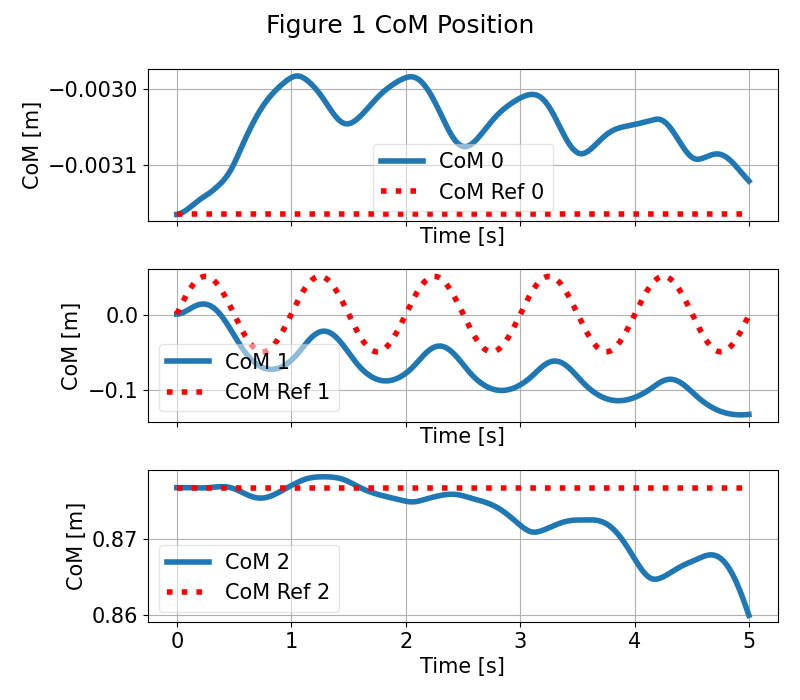
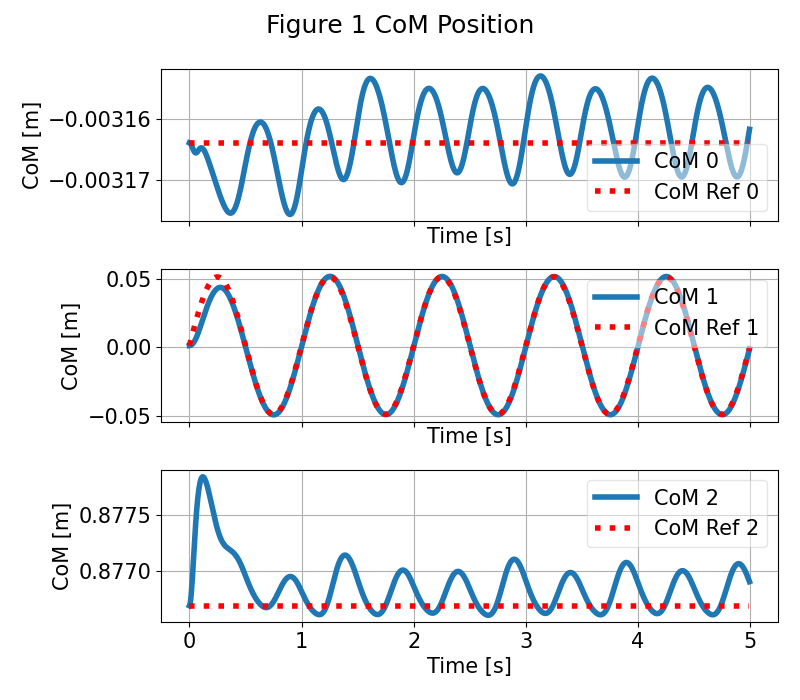
set all configuration in first and second exercise

diff --git a/romeo_conf.py b/romeo_conf.py
@@ -92,7 +92,25 @@ def select_weights_and_gains(option):
         kp_posture = 1.0  # proportional gain of joint posture task
         
     elif option == 1:
-        # Configuration 1: First solution first point
+        # Configuration 1: First solution for 15 but not optimal
+        w_com = 1.0  # weight of center of mass task
+        w_cop = 0.0  # weight of center of pressure task
+        w_am = 1e-6  # weight of angular momentum task
+        w_foot = 1e0  # weight of the foot motion task
+        w_contact = 1e2  # weight of the foot in contact
+        w_posture = 1e-1  # weight of joint posture task
+        w_forceRef = 1e-5  # weight of force regularization task
+        w_torque_bounds = 1.0  # weight of the torque bounds
+        w_joint_bounds = 1.0
+        
+        kp_contact = 10.0  # proportional gain of contact constraint
+        kp_foot = 10.0  # proportional gain of contact constraint
+        kp_com = 10.0  # proportional gain of center of mass task
+        kp_am = 10.0  # proportional gain of angular momentum task
+        kp_posture = 1.0  # proportional gain of joint posture task
+        
+    elif option == 2:
+        # Configuration 1: First solution optimal
         w_com = 1.0  # weight of center of mass task
         w_cop = 0.0  # weight of center of pressure task
         w_am = 1e-6  # weight of angular momentum task
@@ -109,16 +127,15 @@ def select_weights_and_gains(option):
         kp_am = 10.0  # proportional gain of angular momentum task
         kp_posture = 1.0  # proportional gain of joint posture task
 
-    elif option == 2:
-        # Configuration 2: way ti achive solution second point
-        # Type of the configuration for the second part
-        w_com = 17.0 
+    elif option == 3:
+       # Configuration 2: first solution but not optimal for 30
+        w_com = 10.0 
         w_cop = 0.0
         w_am = 1e-4
         w_foot = 1e0
         w_contact = 1e2
         w_posture = 1e-1
-        w_forceRef = 1e-7
+        w_forceRef = 1e-5
         w_torque_bounds = -1.0
         w_joint_bounds = 1.0
         kp_contact = 10.0
@@ -127,9 +144,8 @@ def select_weights_and_gains(option):
         kp_am = 10.0
         kp_posture = -1.0
         
-    elif option == 3:
-        # Configuration 3 (Selezionata come migliore)
-        # best configuration for second point
+    elif option == 4:
+        # Configuration 3: Second solution and best solution for 30 e 15
         w_com = 1.0
         w_cop = 0.0
         w_am = 1e-4
@@ -145,7 +161,7 @@ def select_weights_and_gains(option):
         kp_am = 50.0
         kp_posture = 1.0
     else:
-        raise ValueError("Opzione non valida! Scegliere tra 1, 2 o 3.")
+        raise ValueError("Opzione non valida! Scegliere tra 0, 1, 2, 3 or 4")
 
     gain_vector = kp_posture * np.ones(nv - 6)
     masks_posture = np.ones(nv - 6)

diff --git a/talos_conf.py b/talos_conf.py
@@ -117,7 +117,8 @@ def select_weights_and_gains(option):
         kp_posture = 1.0        # proportional gain of joint posture task
         
     elif option == 3:
-        w_com = 1.0             # weight of center of mass task
+        #configuration NOTA = 1000 w_com and 100 kp_com
+        w_com = 1000.0             # weight of center of mass task
         w_am = 1e-3             # weight of angular momentum task
         w_foot = 1e-1           # weight of the foot motion task
         w_contact = -1.0        # weight of foot in contact (negative means infinite weight)
@@ -129,27 +130,12 @@ def select_weights_and_gains(option):
         
         kp_contact = 10.0       # proportional gain of contact constraint
         kp_foot = 10.0          # proportional gain of contact constraint
-        kp_com = 10.0           # proportional gain of center of mass task
+        kp_com = 100.0           # proportional gain of center of mass task
         kp_am = 10.0            # proportional gain of angular momentum task
         kp_posture = 1.0        # proportional gain of joint posture task
-    elif option == 4:
-        w_com = 1.0             # weight of center of mass task
-        w_am = 1e-3             # weight of angular momentum task
-        w_foot = 1e-1           # weight of the foot motion task
-        w_contact = -1.0        # weight of foot in contact (negative means infinite weight)
-        w_posture = 1e-1        # weight of joint posture task
-        w_forceRef = 1e-5       # weight of force regularization task
-        w_cop = 0.0
-        w_torque_bounds = 1.0   # weight of the torque bounds
-        w_joint_bounds = 0.0
-        
-        kp_contact = 10.0       # proportional gain of contact constraint
-        kp_foot = 10.0          # proportional gain of contact constraint
-        kp_com = 1000.0           # proportional gain of center of mass task
-        kp_am = 10.0            # proportional gain of angular momentum task
-        kp_posture = 1.0        # proportional gain of joint posture task
+
     else:
-        raise ValueError("not valid option! choice between 1, 2 o 3.....")
+        raise ValueError("not valid option! choice between 0, 1, 2 or 3")
 
 
     return {

diff --git a/ex_2_biped_walking.py b/ex_2_biped_walking.py
@@ -364,4 +364,30 @@ if PLOT_JOINT_VEL:
     leg = plt.legend()
 #    leg.get_frame().set_alpha(0.5)
 
+if PLOT_COP:
+    (f, ax) = plut.create_empty_figure(1, 1)  # Grafico unico per visualizzare entrambi i piedi
+
+    # CoP per il piede sinistro (LF - Left Foot)
+    ax.plot(cop_LF[0, :], cop_LF[1, :], label="CoP LF", color="blue")
+    ax.plot([-conf.lxn, conf.lxp, conf.lxp, -conf.lxn, -conf.lxn],
+            [-conf.lyn, -conf.lyn, conf.lyp, conf.lyp, -conf.lyn],
+            ":", color="blue", label="Foot Limits LF")
+
+    # CoP per il piede destro (RF - Right Foot)
+    ax.plot(cop_RF[0, :], cop_RF[1, :], label="CoP RF", color="orange")
+    ax.plot([-conf.lxn, conf.lxp, conf.lxp, -conf.lxn, -conf.lxn],
+            [-conf.lyn, -conf.lyn, conf.lyp, conf.lyp, -conf.lyn],
+            ":", color="green", label="Foot Limits RF")
+
+    ax.set_xlabel("CoP X [m]")
+    ax.set_ylabel("CoP Y [m]")
+    ax.set_title("Center of Pressure (CoP) for each foot")
+    ax.axis("equal")  # Assicura proporzioni quadrate per i piedi
+    leg = ax.legend()
+    leg.get_frame().set_alpha(0.5)
+
+
+
 plt.show()
+
+
